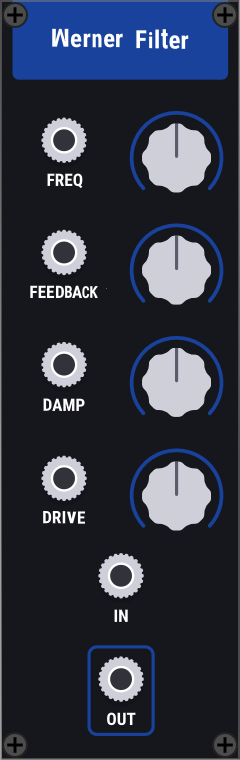
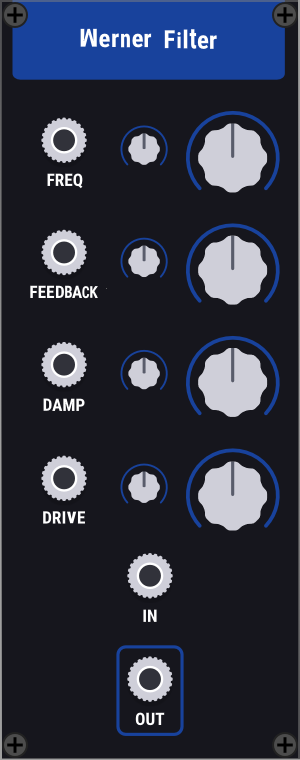
Prep for release 1.3.1

diff --git a/src/plugin.cpp b/src/plugin.cpp
@@ -15,7 +15,7 @@ void init(Plugin* p) {
     p->addModel(modelChowRNN);
     p->addModel(modelChowModal);
     p->addModel(modelChowDer);
-    p->addModel(modelWarp);
+    // p->addModel(modelWarp);
     p->addModel(modelWerner);
     p->addModel(modelCredit);
     p->addModel(modelChowPulse);

diff --git a/src/plugin.hpp b/src/plugin.hpp
@@ -15,7 +15,7 @@ extern Model* modelChowFDN;
 extern Model* modelChowRNN;
 extern Model* modelChowModal;
 extern Model* modelChowDer;
-extern Model* modelWarp;
+// extern Model* modelWarp;
 extern Model* modelWerner;
 extern Model* modelCredit;
 extern Model* modelChowPulse;

diff --git a/CHANGELOG.md b/CHANGELOG.md
@@ -2,6 +2,11 @@
 All notable changes to this project will be documented in
 this file.
 
+## [1.3.1] - 2020-10-06
+- Fixed Credit crashes on OSX
+- Added attenuverters for Werner Filter
+- Changed default save file for Credit
+
 ## [1.3.0] - 2020-09-27
 - Added new filter based on Kurt Werner's SVF
 - Added new pulse shaper module (ChowPulse)
